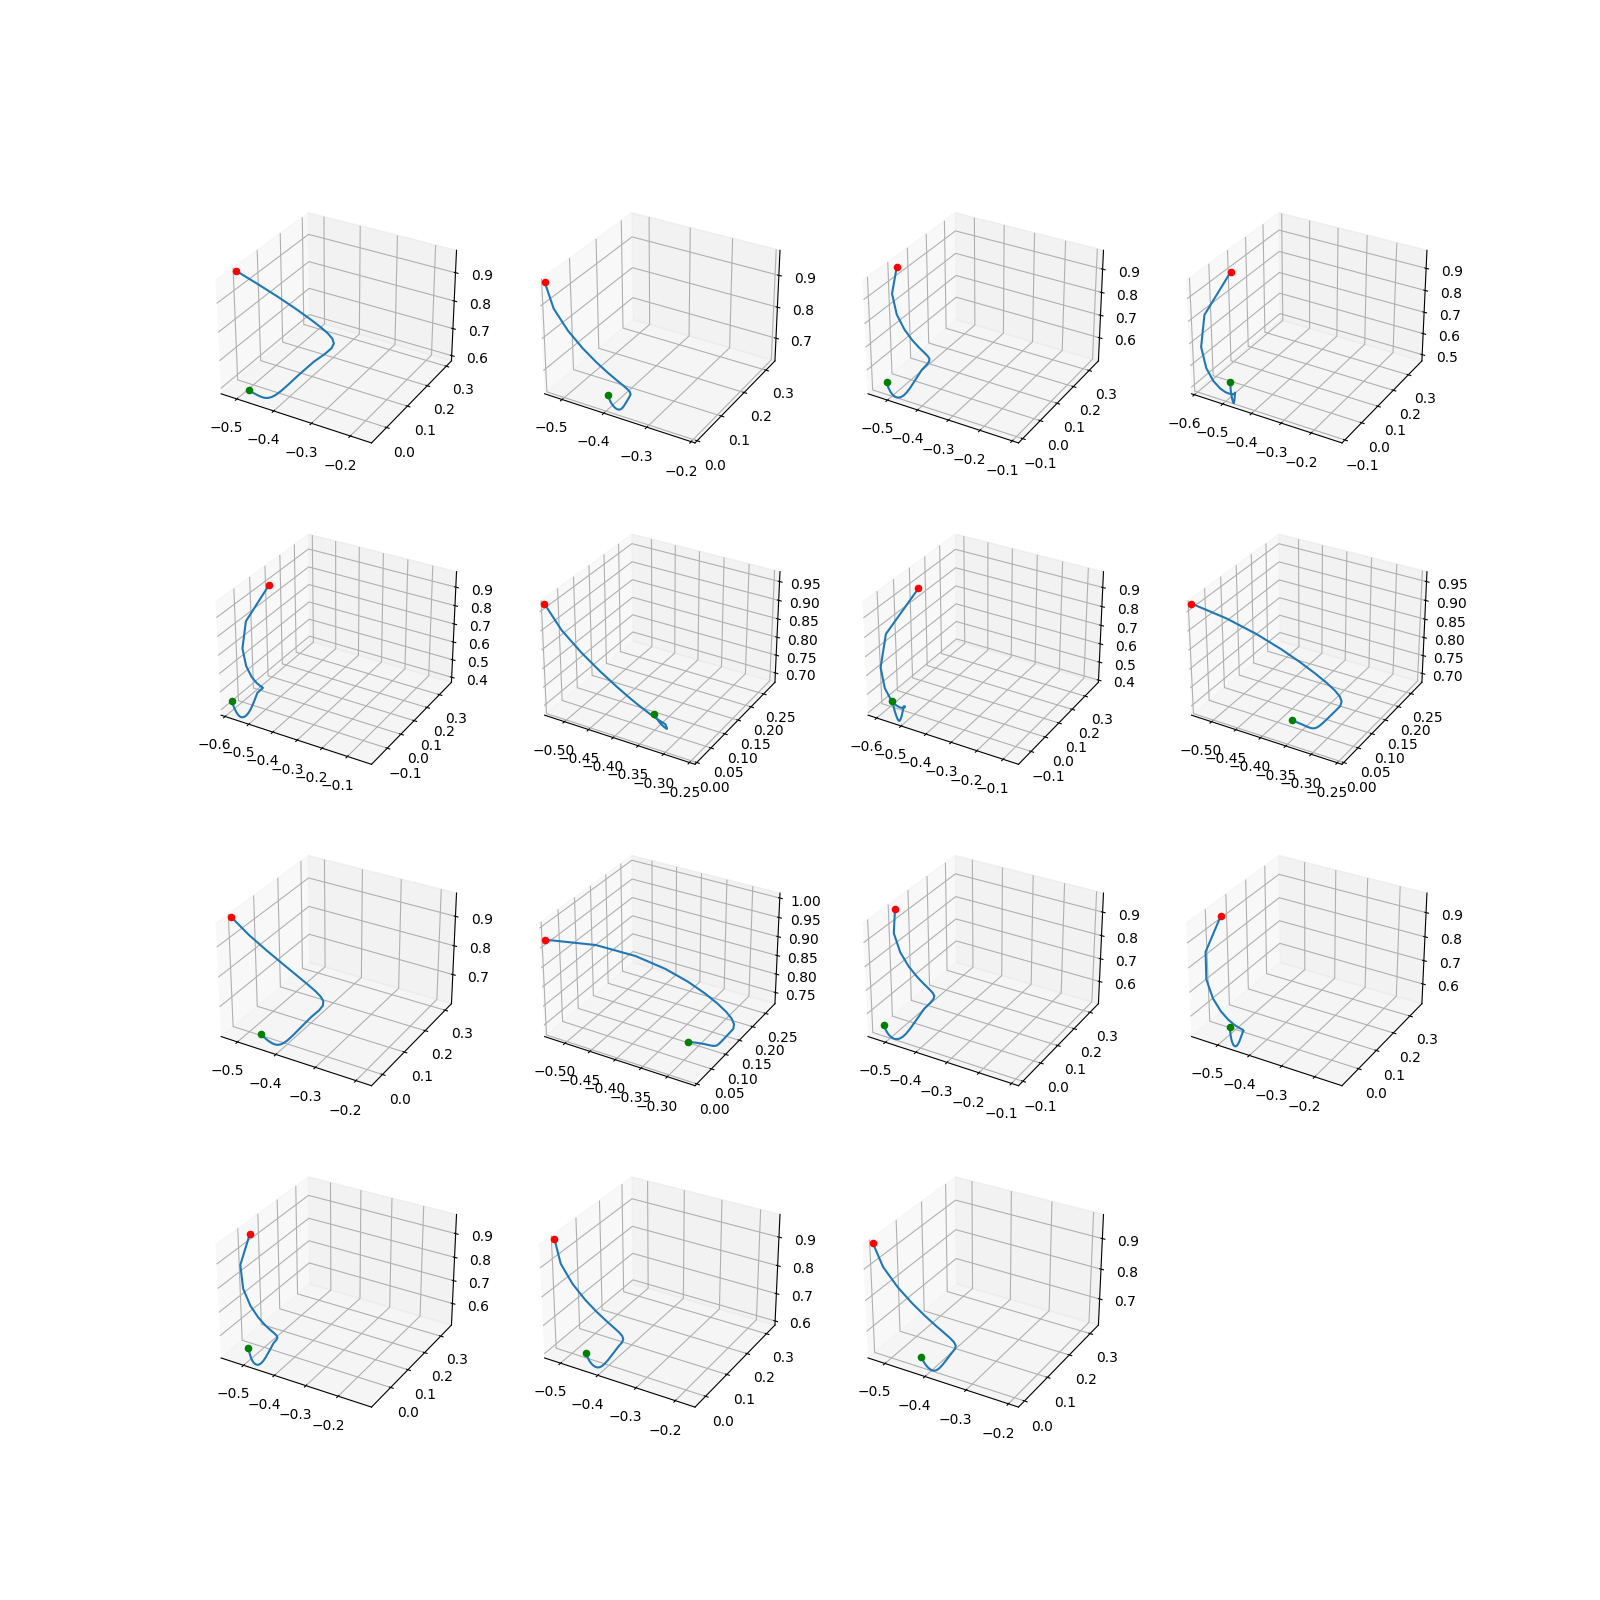
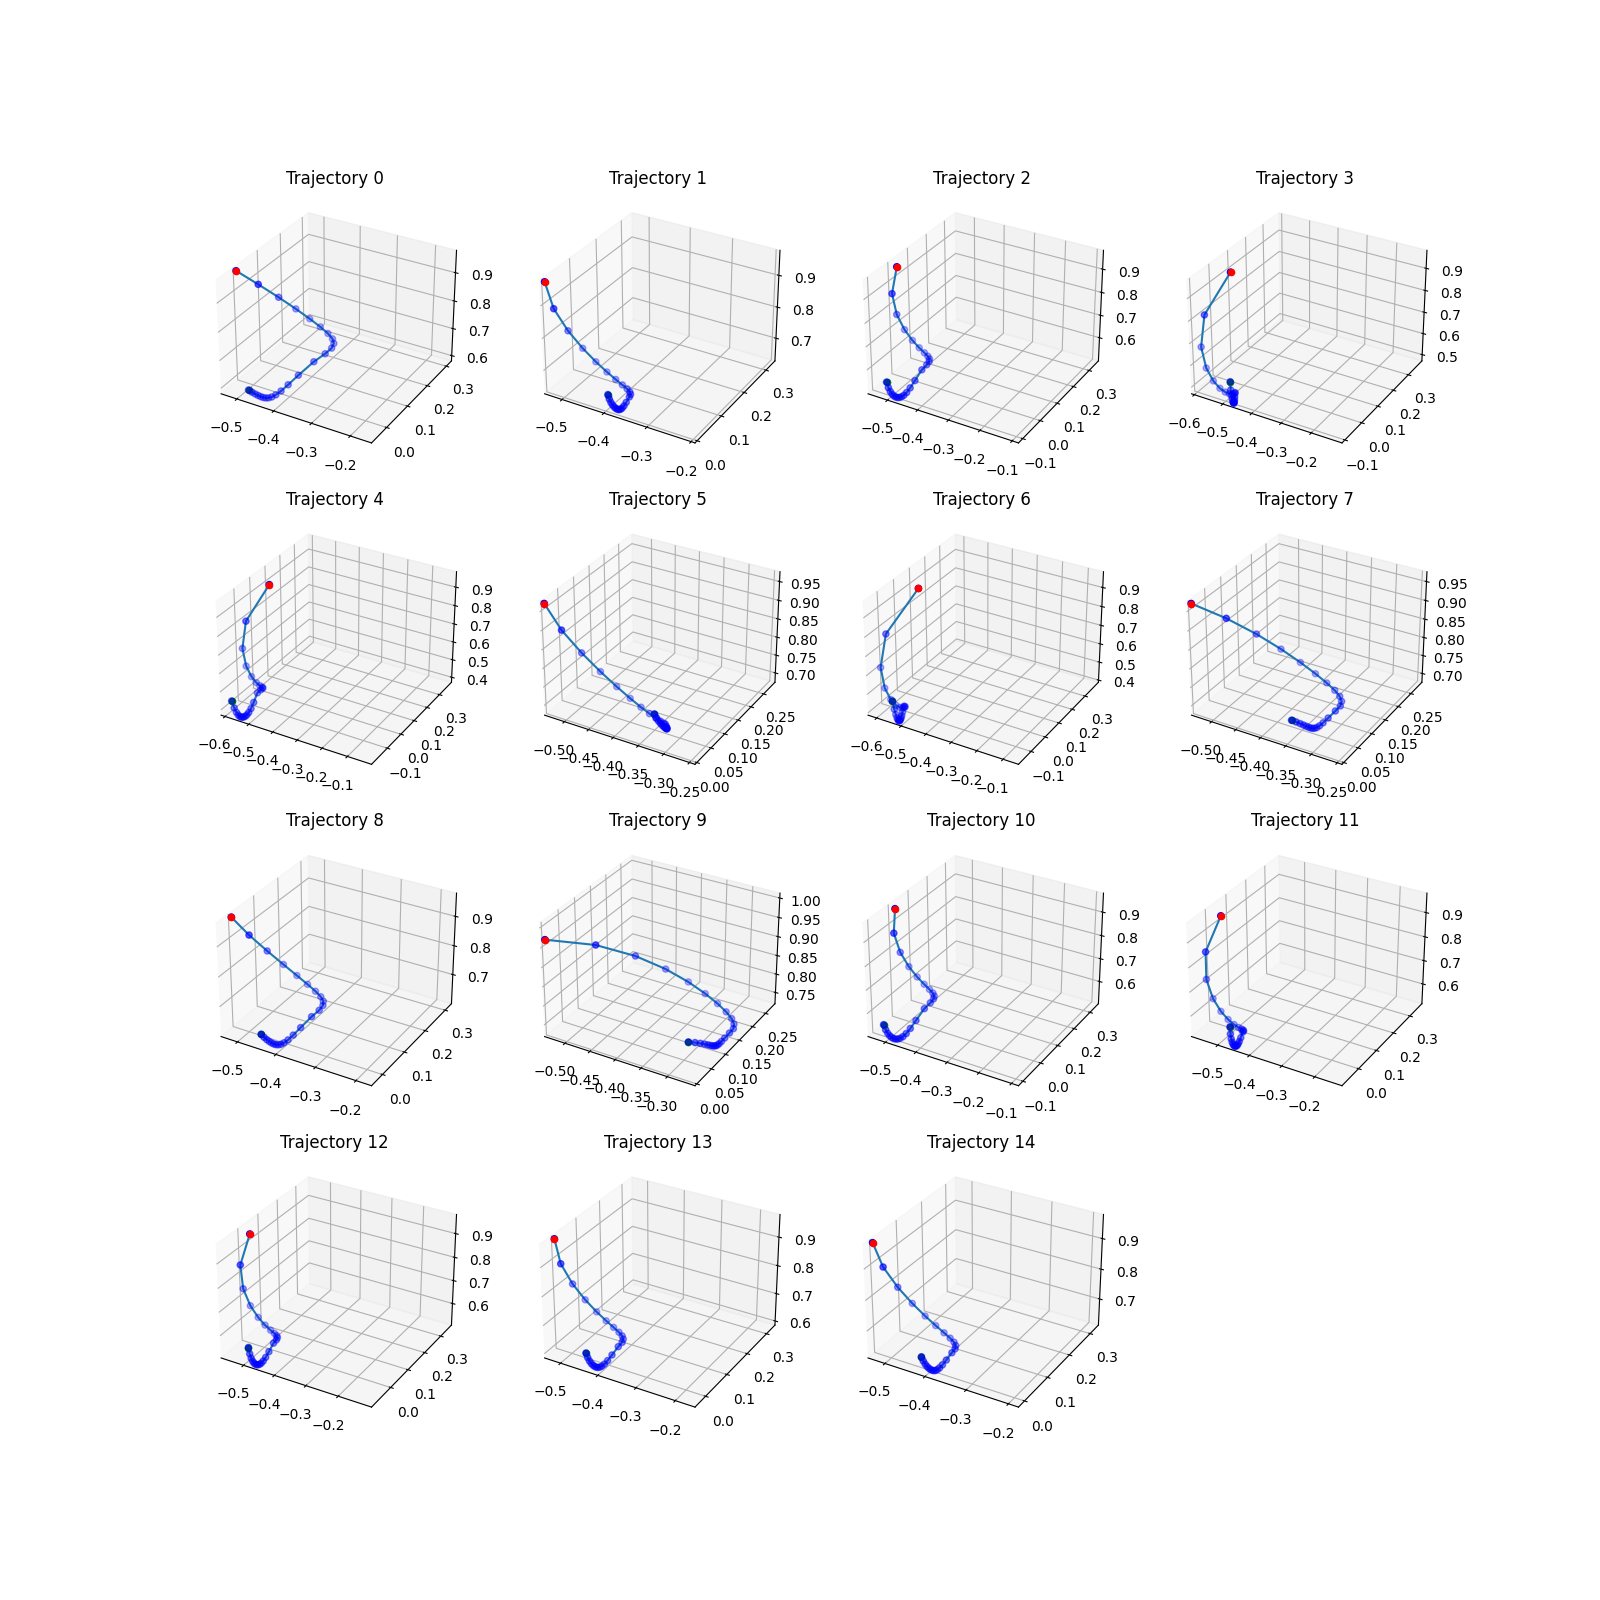
use new data

diff --git a/mbirl/generate_expert_demo.py b/mbirl/generate_expert_demo.py
@@ -24,17 +24,17 @@ class GroundTruthForwardModel(torch.nn.Module):
         xdesired = x + u
 
         keypoints = []
-        for link in [1,2,3]:
-            kp_pos, kp_rot = self.robot_model.compute_forward_kinematics(xdesired, 'kp_link_'+str(link))
-            keypoints+=kp_pos
+        for link in [1, 2, 3]:
+            kp_pos, kp_rot = self.robot_model.compute_forward_kinematics(xdesired, 'kp_link_' + str(link))
+            keypoints += kp_pos
 
         return torch.stack(keypoints).squeeze()
 
     def forward_kin(self, x):
         keypoints = []
-        for link in [1,2,3]:
-            kp_pos, kp_rot  = self.robot_model.compute_forward_kinematics(x, 'kp_link_'+str(link))
-            keypoints+=kp_pos
+        for link in [1, 2, 3]:
+            kp_pos, kp_rot = self.robot_model.compute_forward_kinematics(x, 'kp_link_' + str(link))
+            keypoints += kp_pos
 
         return torch.stack(keypoints).squeeze()
 
@@ -67,35 +67,36 @@ class ActionNetwork(torch.nn.Module):
         return torch.stack(qs), torch.stack(key_pos)
 
 
-def generate_demo_traj(rest_pose, goal_ee1,goal_ee2,policy):
+def generate_demo_traj(rest_pose, goal_ee1, goal_ee2, policy):
     joint_state = rest_pose
     for epoch in range(100):
         qs, key_pos = policy.roll_out(joint_state.clone())
-        loss = ((key_pos[1:12,-3:]-torch.Tensor(goal_ee1))**2).mean(dim=0) + ((key_pos[12:,-3:]-torch.Tensor(goal_ee2))**2 ).mean(dim=0)
-        loss = loss.mean() + (policy.action**2).mean()
+        loss = ((key_pos[1:12, -3:] - torch.Tensor(goal_ee1)) ** 2).mean(dim=0) + (
+                    (key_pos[12:, -3:] - torch.Tensor(goal_ee2)) ** 2).mean(dim=0)
+        loss = loss.mean() + (policy.action ** 2).mean()
         policy.optimizer.zero_grad()
         loss.backward(retain_graph=True)
         policy.optimizer.step()
-    print('keypoint',key_pos[11,-3:])
-    print('goal1',goal_ee1)
+    print('keypoint', key_pos[11, -3:])
+    print('goal1', goal_ee1)
     print('keypoint', key_pos[-1, -3:])
     print('goal2', goal_ee2)
 
-    #collect trajectory info
+    # collect trajectory info
     qs, key_pos = policy.roll_out(joint_state.clone())
-    print('roll_out',key_pos[-1,-3:])
-    return qs.detach().numpy(),key_pos.detach().numpy(), policy.action.detach().numpy()
+    print('roll_out', key_pos[-1, -3:])
+    return qs.detach().numpy(), key_pos.detach().numpy(), policy.action.detach().numpy()
 
 
-def visualize_traj(traj_data,robot_id,sim):
+def visualize_traj(traj_data, robot_id, sim):
     qs = traj_data['q'].squeeze()
     print(qs.shape)
     for q in qs:
         for i in range(7):
             sim.resetJointState(bodyUniqueId=robot_id,
-                              jointIndex=i,
-                              targetValue=q[i],
-                              targetVelocity=0)
+                                jointIndex=i,
+                                targetValue=q[i],
+                                targetVelocity=0)
         sim.stepSimulation()
 
         time.sleep(0.2)
@@ -119,10 +120,12 @@ if __name__ == '__main__':
     rest_pose = torch.Tensor(rest_pose).unsqueeze(dim=0)
     cur_ee = dmodel.forward_kin(rest_pose)
 
-    print(cur_ee)
-    data_type = 'reaching'
+    data_type = 'reaching' #'placing'
 
     generate_new_data = False
+
+    if not os.path.exists(f'traj_data'):
+        os.makedirs('traj_data')
 
     if generate_new_data or not os.path.exists(f'traj_data/traj_data_{data_type}.pkl'):
         print('cur_ee', cur_ee[-3:])
@@ -145,7 +148,7 @@ if __name__ == '__main__':
                     goal_ee1 = goal_ee2.clone()
                 else:
                     goal_ee2 = goal_ee1.clone()
-            qs,keypoints,actions = generate_demo_traj(rest_pose,goal_ee1,goal_ee2,policy)
+            qs, keypoints, actions = generate_demo_traj(rest_pose, goal_ee1, goal_ee2, policy)
             traj_data['q'] = qs
             traj_data['keypoints'] = keypoints
             traj_data['actions'] = actions
@@ -160,17 +163,20 @@ if __name__ == '__main__':
         trajs = pickle.load(f)
 
     n_trajs = len(trajs)
-    n_trajs_sqrt = np.sqrt(n_trajs)
-    if n_trajs_sqrt**2 < n_trajs:
+    n_trajs_sqrt = int(np.sqrt(n_trajs))
+    if n_trajs_sqrt ** 2 < n_trajs:
         n_trajs_sqrt += 1
 
-    fig = plt.figure(figsize=(n_trajs_sqrt**2, n_trajs_sqrt**2))
+    fig = plt.figure(figsize=(n_trajs_sqrt ** 2, n_trajs_sqrt ** 2))
     for i, traj in enumerate(trajs):
-        ax = fig.add_subplot(n_trajs_sqrt, n_trajs_sqrt, i+1, projection='3d')
+        ax = fig.add_subplot(n_trajs_sqrt, n_trajs_sqrt, i + 1, projection='3d')
         ax.plot(trajs[i]['keypoints'][1:, 0, 0], trajs[i]['keypoints'][1:, 0, 1], trajs[i]['keypoints'][1:, 0, 2])
-        ax.scatter(trajs[i]['keypoints'][1:, 0, 0], trajs[i]['keypoints'][1:, 0, 1], trajs[i]['keypoints'][1:, 0, 2], color='blue')
-        ax.scatter(trajs[i]['keypoints'][1, 0, 0], trajs[i]['keypoints'][1, 0, 1], trajs[i]['keypoints'][1, 0, 2], color='red')
-        ax.scatter(trajs[i]['keypoints'][-1, 0, 0], trajs[i]['keypoints'][-1, 0, 1], trajs[i]['keypoints'][-1, 0, 2], color='green')
+        ax.scatter(trajs[i]['keypoints'][1:, 0, 0], trajs[i]['keypoints'][1:, 0, 1], trajs[i]['keypoints'][1:, 0, 2],
+                   color='blue')
+        ax.scatter(trajs[i]['keypoints'][1, 0, 0], trajs[i]['keypoints'][1, 0, 1], trajs[i]['keypoints'][1, 0, 2],
+                   color='red')
+        ax.scatter(trajs[i]['keypoints'][-1, 0, 0], trajs[i]['keypoints'][-1, 0, 1], trajs[i]['keypoints'][-1, 0, 2],
+                   color='green')
         range_x = trajs[i]['keypoints'][1:, 0, 0].max() - trajs[i]['keypoints'][1:, 0, 0].min()
         range_y = trajs[i]['keypoints'][1:, 0, 1].max() - trajs[i]['keypoints'][1:, 0, 1].min()
         range_z = trajs[i]['keypoints'][1:, 0, 2].max() - trajs[i]['keypoints'][1:, 0, 2].min()
@@ -178,7 +184,6 @@ if __name__ == '__main__':
         ax.set_xlim([trajs[i]['keypoints'][1:, 0, 0].min(), trajs[i]['keypoints'][1:, 0, 0].min() + range])
         ax.set_ylim([trajs[i]['keypoints'][1:, 0, 1].min(), trajs[i]['keypoints'][1:, 0, 1].min() + range])
         ax.set_zlim([trajs[i]['keypoints'][1:, 0, 2].min(), trajs[i]['keypoints'][1:, 0, 2].min() + range])
+        ax.set_title(f"Trajectory {i}")
 
     plt.savefig(f'traj_data/traj_data_{data_type}.png')
-
-

diff --git a/mbirl/example_irl_cost_learning_our_method.py b/mbirl/example_irl_cost_learning_our_method.py
@@ -5,6 +5,7 @@ import torch
 import numpy as np
 import higher
 import mbirl
+import dill as pickle
 
 from differentiable_robot_model import DifferentiableRobotModel
 
@@ -24,38 +25,39 @@ class IRLLoss(object):
 def irl_training(learnable_cost, robot_model, irl_loss_fn, expert_demo, n_outer_iter, n_inner_iter):
 
     learnable_cost_opt = torch.optim.Adam(learnable_cost.parameters(), lr=1e-2)
+    keypoint_mpc_wrapper = KeypointMPCWrapper(robot_model)
+    action_optimizer = torch.optim.SGD(keypoint_mpc_wrapper.parameters(), lr=1.0)
+
+    irl_cost_eval = []
 
     for outer_i in range(n_outer_iter):
 
         learnable_cost_opt.zero_grad()
         # re-initialize action parameters for each outer iteration
-        keypoint_mpc_wrapper = KeypointMPCWrapper(robot_model)
-        action_optimizer = torch.optim.SGD(keypoint_mpc_wrapper.parameters(), lr=1.0)
 
-        for _ in range(n_inner_iter):
-            action_optimizer.zero_grad()
-            keypoint_mpc_wrapper.reset_actions()
-            with higher.innerloop_ctx(keypoint_mpc_wrapper, action_optimizer) as (fpolicy, diffopt):
-                start_pose = expert_demo[0,:7]
-                joint_state = torch.Tensor(start_pose)
-                pred_traj = fpolicy.roll_out(joint_state.clone())
+        start_pose = torch.Tensor(expert_demo[0, :7])
+
+        action_optimizer.zero_grad()
+        keypoint_mpc_wrapper.reset_actions()
+
+        with higher.innerloop_ctx(keypoint_mpc_wrapper, action_optimizer) as (fpolicy, diffopt):
+            for _ in range(n_inner_iter):
+                pred_traj = fpolicy.roll_out(start_pose.clone())
 
                 # use the learned loss to update the action sequence
                 learned_cost_val = learnable_cost(pred_traj, expert_demo[-1])
                 diffopt.step(learned_cost_val)
 
-                joint_state = torch.Tensor(start_pose)
-                pred_traj = fpolicy.roll_out(joint_state)
-                # compute task loss
-                irl_loss = irl_loss_fn(pred_traj, expert_demo).mean()
+            pred_traj = fpolicy.roll_out(start_pose)
+            # compute task loss
+            irl_loss = irl_loss_fn(pred_traj, expert_demo).mean()
 
-        if outer_i % 10 == 0:
-            print("irl cost training iter: {} loss: {}".format(outer_i, irl_loss.item()))
+            if outer_i % 10 == 0:
+                print("irl cost training iter: {} loss: {}".format(outer_i, irl_loss.item()))
 
-        # backprop gradient of learned cost parameters wrt irl loss
-        learnable_cost_opt.zero_grad()
-        learnable_cost.zero_grad()
-        irl_loss.backward(retain_graph=True)
+            # backprop gradient of learned cost parameters wrt irl loss
+            irl_loss.backward(retain_graph=True)
+            irl_cost_eval.append(irl_loss.detach())
 
         learnable_cost_opt.step()
 
@@ -75,7 +77,22 @@ if __name__ == '__main__':
     # TODO: rename into weighted and timedepweighted ? something more descriptive
     cost_type = 'seq' #'fixed'
 
-    expert_demo = torch.Tensor(np.load('expert_demo.npy'))
+    # expert_demo = torch.Tensor(np.load('expert_demo.npy'))
+
+    data_type = 'reaching'  # 'placing'
+    with open(f'traj_data/traj_data_{data_type}.pkl', 'rb') as f:
+        trajs = pickle.load(f)
+    if data_type == 'reaching':
+        traj = trajs[4]
+    else:
+        traj = trajs[0]
+
+    traj_len = len(traj['q'])
+
+    expert_demo = np.concatenate([traj['q'].reshape(traj_len, -1), traj['keypoints'].reshape(traj_len, -1)], axis=-1)
+    expert_demo = torch.Tensor(expert_demo)
+    print(expert_demo.shape)
+
     learned_cost = None
 
     if cost_type=='fixed':

diff --git a/mbirl/example_feature_matching_baseline.py b/mbirl/example_feature_matching_baseline.py
@@ -138,10 +138,6 @@ def irl_train(action_seq,expert_traj, current_traj, expert_features, learned_fea
 
             print("irl cost training iter: {} loss: {}".format(all_iter, target_loss_fn(pred_traj,target_traj).item()))
 
-
-
-
-
             # compute features extracted using current weights
             if params['features'] == 'pred-goals':
                 temp_features[:] += ((pred_traj[:-1, -9:]-target_traj[1:, -9:])**2).detach().numpy().astype(np.double)
@@ -183,7 +179,22 @@ if __name__ == '__main__':
         'time_horizon': 25
     }
 
-    expert_demo = torch.Tensor(np.load('expert_demo.npy'))
+    # expert_demo = torch.Tensor(np.load('expert_demo.npy'))
+
+    data_type = 'reaching'  # 'placing'
+    with open(f'traj_data/traj_data_{data_type}.pkl', 'rb') as f:
+        trajs = pickle.load(f)
+    if data_type == 'reaching':
+        traj = trajs[4]
+    else:
+        traj = trajs[0]
+
+    traj_len = len(traj['q'])
+
+    expert_demo = np.concatenate([traj['q'].reshape(traj_len, -1), traj['keypoints'].reshape(traj_len, -1)], axis=-1)
+    expert_demo = torch.Tensor(expert_demo)
+    print(expert_demo.shape)
+
     no_demos = 1
 
     avg_features = []

diff --git a/mbirl/keypoint_mpc.py b/mbirl/keypoint_mpc.py
@@ -30,12 +30,12 @@ class KeypointMPCWrapper(torch.nn.Module):
     def roll_out(self, joint_state):
         qs = []
         key_pos = []
-        joint_state, keypts = self.forward(joint_state.detach())
+        joint_state, keypts = self.forward(joint_state)
         qs.append(joint_state)
         key_pos.append(keypts)
         for t in range(25):
             ac = self.action_seq[t]
-            joint_state, keypts = self.forward(joint_state, ac)
+            joint_state, keypts = self.forward(joint_state.detach(), ac)
             tl = torch.Tensor(joint_limits)
             joint_state = torch.where(joint_state > tl, tl, joint_state)
             joint_state = torch.where(joint_state < -tl, -tl, joint_state)
